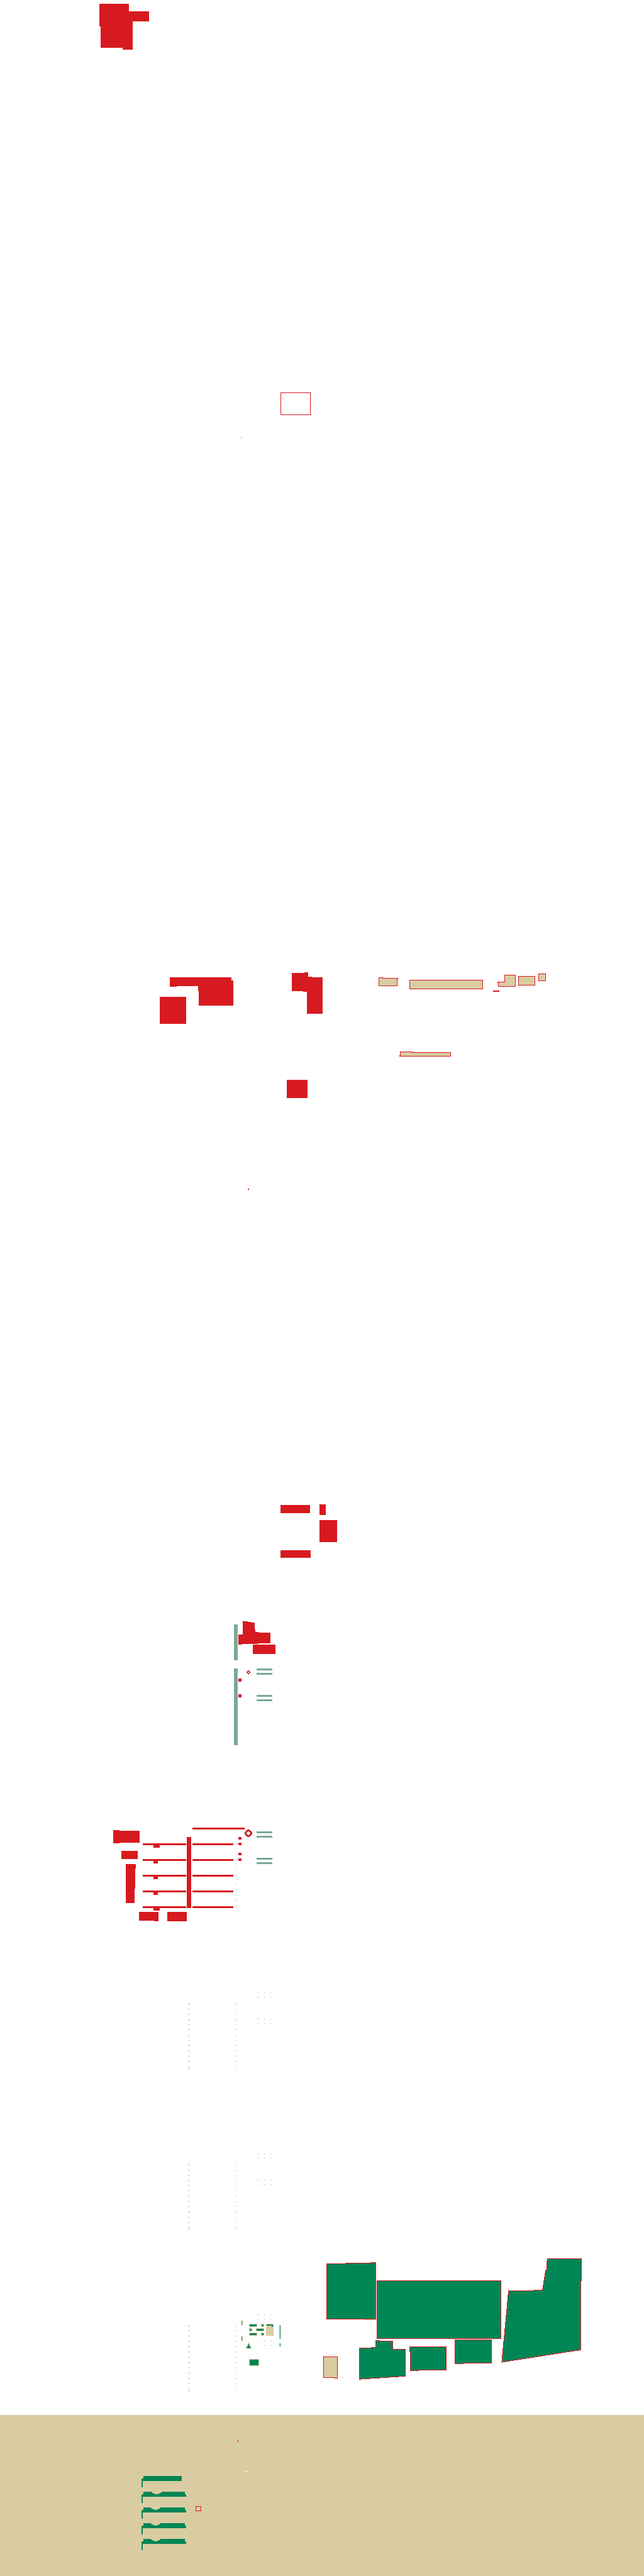
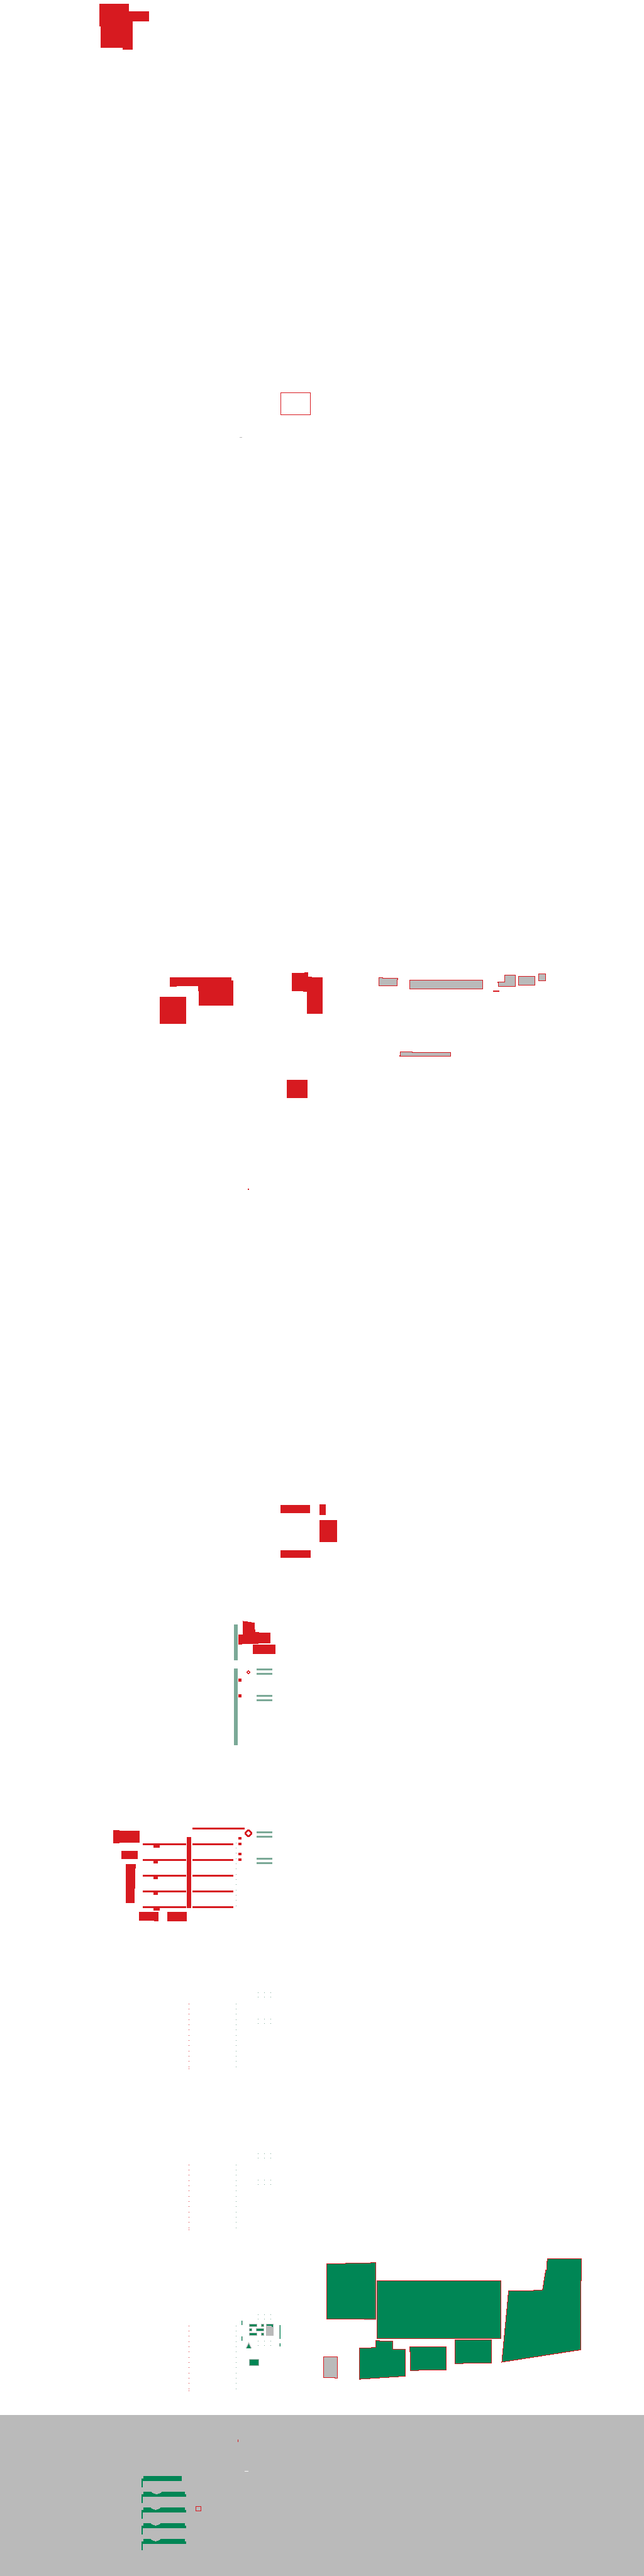
Ambient occlusion and fog

Changed region(s): [[0.0, 0.9062, 1.0, 1.0], [0.6562, 0.375, 0.7188, 0.4062]]

diff --git a/src/vox-pass.cpp b/src/vox-pass.cpp
@@ -28,6 +28,7 @@ enum colors {
     LushGreen = 153,
     ColdGray = 159,
     WarmGray = 106,
+    Gray = 248,
     White = 1,
     Cardinal = 30,
 };
@@ -35,7 +36,7 @@ enum colors {
 int colorOf(int paint){
     switch(paint){
         case Concrete:
-            return WarmGray;
+            return Gray;
         case Steel:
             return ColdGray;
         case Roof:
@@ -61,9 +62,9 @@ int main()
 
     string filedesc;
 
-    ifstream f0("out-pgm/layer0.pgm", ios::binary);
-    ifstream f1("out-pgm/layer1.pgm", ios::binary);
-    ifstream f2("out-pgm/layer2.pgm", ios::binary);
+    ifstream f0("maps/pgm/layer0.pgm", ios::binary);
+    ifstream f1("maps/pgm/layer1.pgm", ios::binary);
+    ifstream f2("maps/pgm/layer2.pgm", ios::binary);
 
     f0 >> filetype >> width >> height >> max;
     f1 >> filetype >> width >> height >> max;
@@ -117,6 +118,6 @@ int main()
         i++;
     }
 
-    vox.SaveToFile("out.vox");
+    vox.SaveToFile("maps/map.vox");
 }
 
